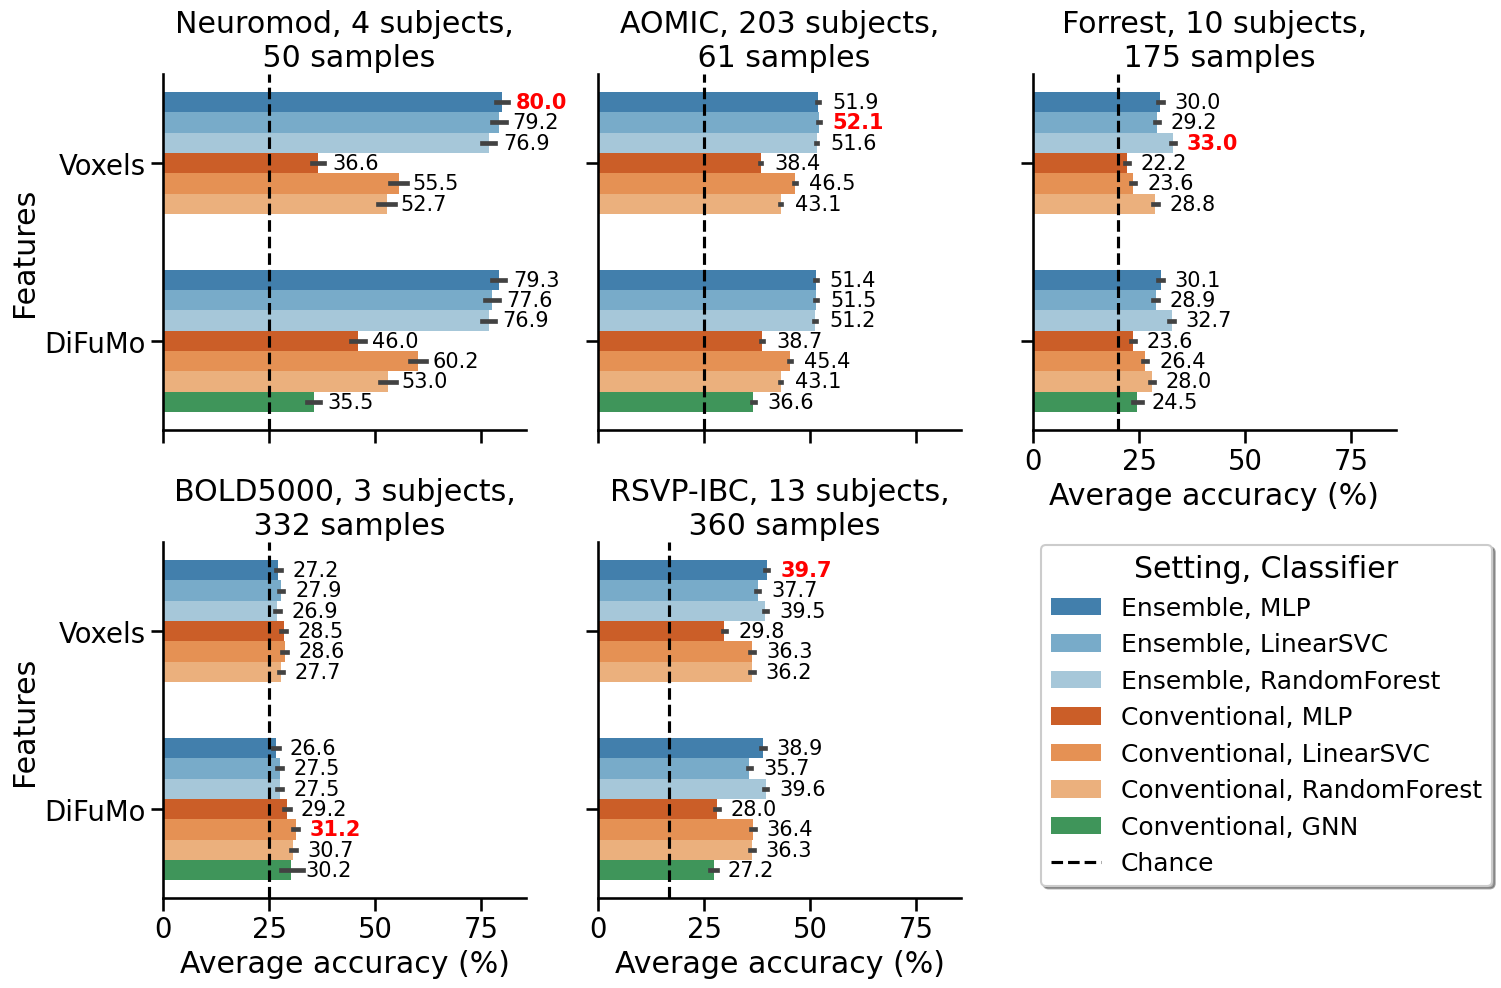
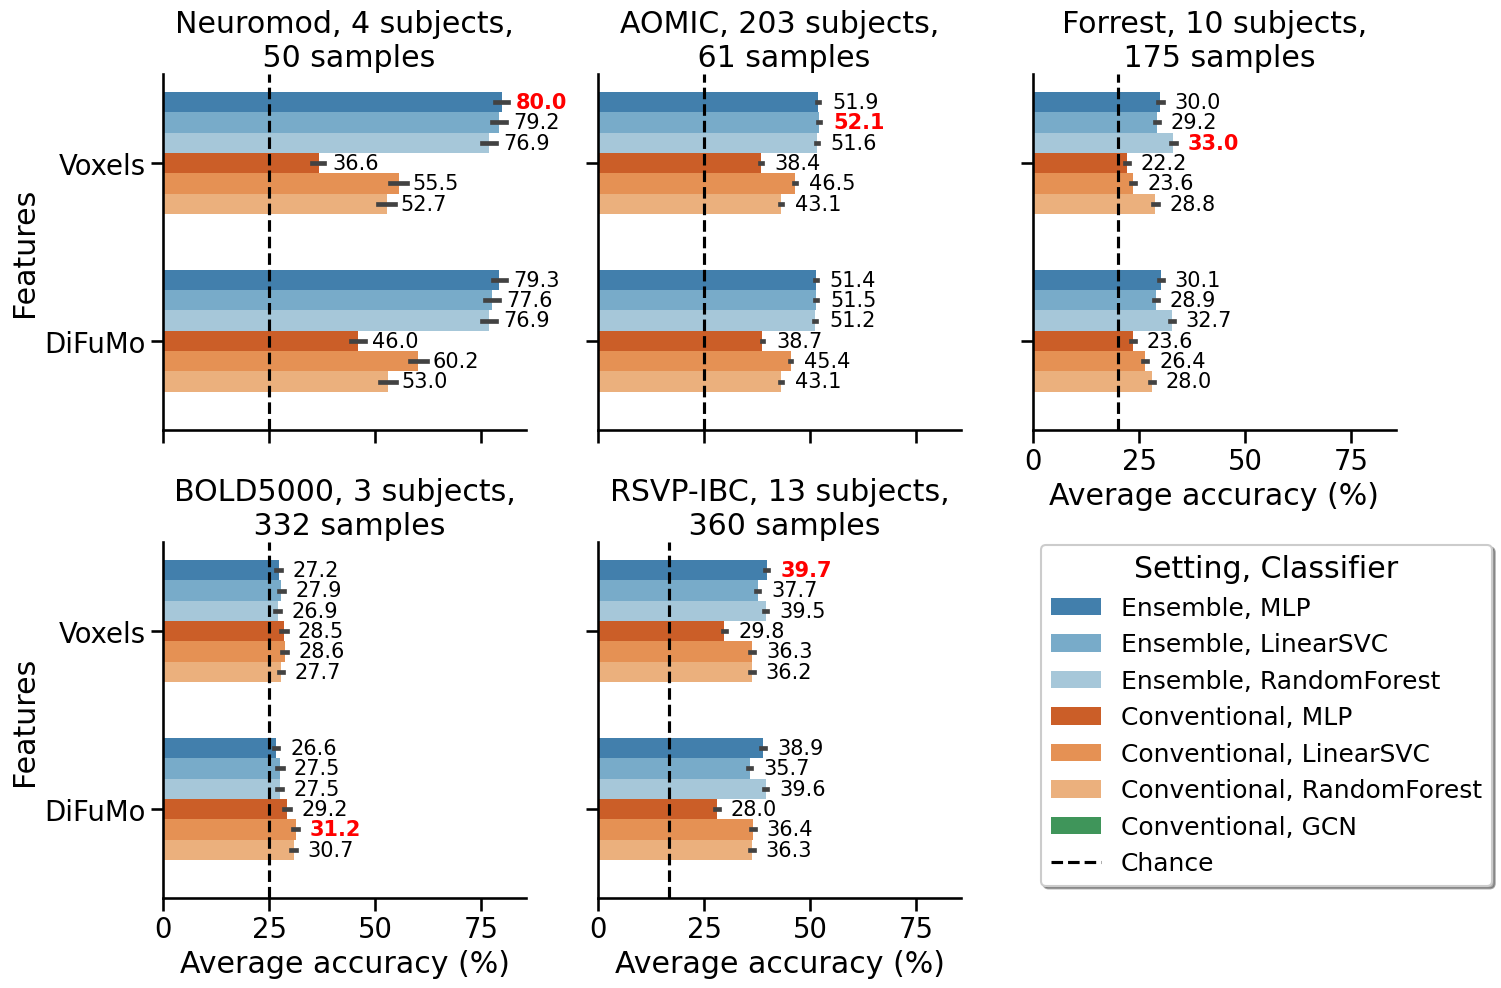
gnn to gcn

diff --git a/scripts/plotting/plot_gcn.py b/scripts/plotting/plot_gcn.py
@@ -44,7 +44,7 @@ features = ["voxels", "difumo"]
 # fixed feature names
 fixed_features = {"voxels": "Voxels", "difumo": "DiFuMo"}
 # classifiers
-classifiers = ["MLP", "LinearSVC", "RandomForest", "GNN"]
+classifiers = ["MLP", "LinearSVC", "RandomForest", "GCN"]
 # settings
 methods = ["conventional", "stacked"]
 # fixed method names
@@ -154,7 +154,7 @@ for metric in metrics:
         "Conventional, MLP",
         "Conventional, LinearSVC",
         "Conventional, RandomForest",
-        "Conventional, GNN",
+        "Conventional, GCN",
     ]
     colors = sns.color_palette("tab20c")
     ensemble_colors = colors[:3]
